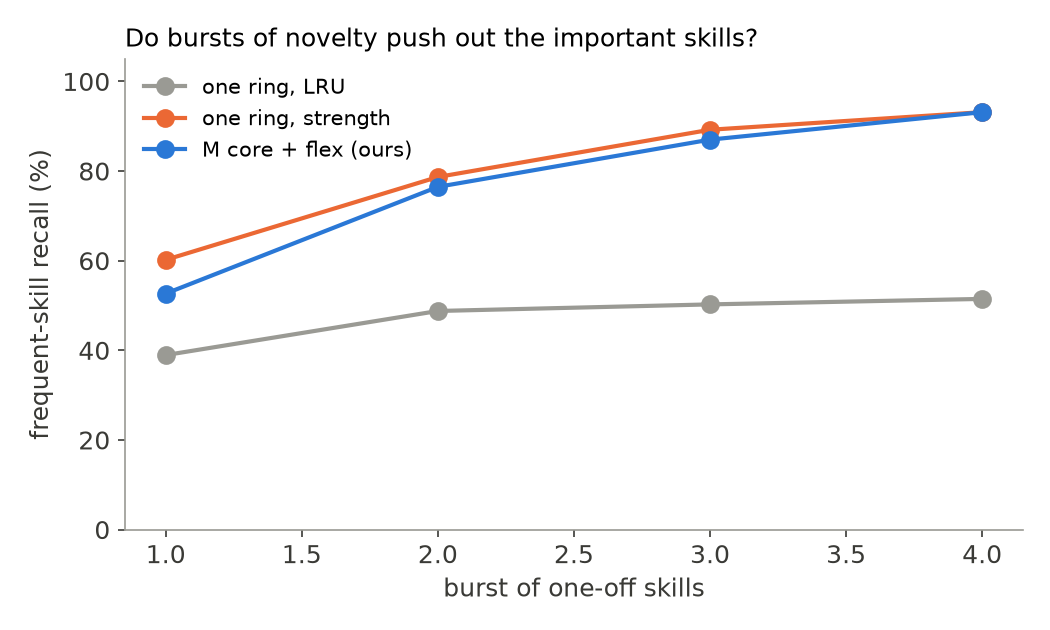
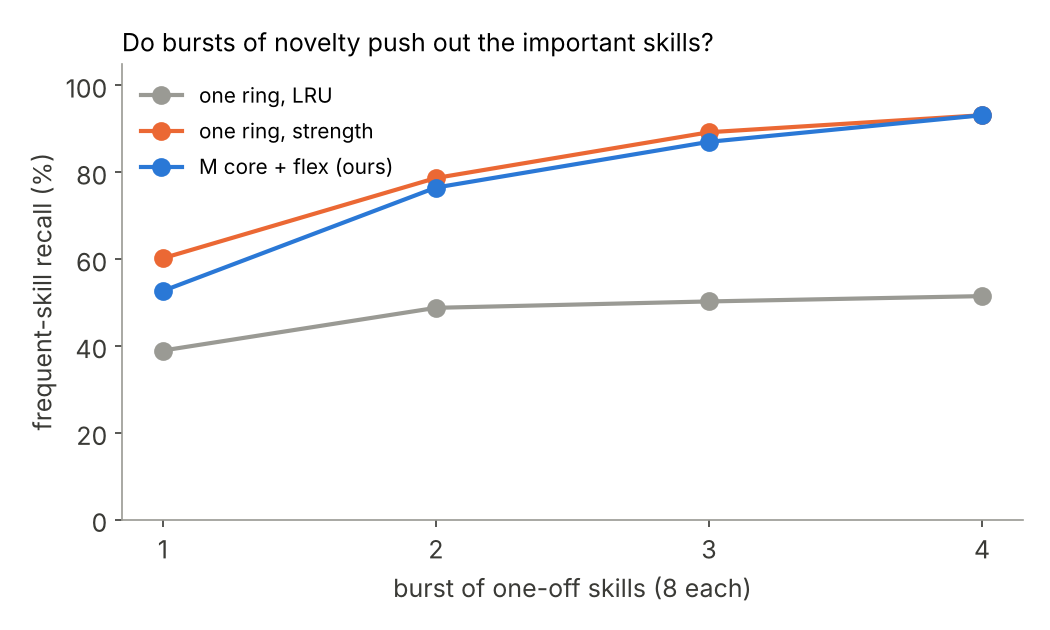
exp(05): verdict FAIL 4/5 (retention +29.4 vs fine-tune, bar +30); README, explainer, plot ticks
Claude-Session: https://claude.ai/code/session_0114zeuF2U3bnTrszuTQZFrt

Changed region(s): [[0.0305, 0.0905, 0.9752, 0.9651], [0.1524, 0.1508, 0.9448, 0.4825], [0.1219, 0.0302, 0.7314, 0.0905]]

diff --git a/experiments/05-core-flex-consolidation/plots.py b/experiments/05-core-flex-consolidation/plots.py
@@ -61,7 +61,8 @@ def make(per_seed, tab, out):
             continue
         ax.plot(np.arange(1, rec.shape[1] + 1), rec.mean(0), "-o", color=col, lw=2, ms=8, label=ARM_LABEL[a])
     ax.set_ylim(0, 105)
-    ax.set_xlabel("burst of one-off skills")
+    ax.set_xticks(range(1, 5))
+    ax.set_xlabel("burst of one-off skills (8 each)")
     ax.set_ylabel("frequent-skill recall (%)")
     ax.set_title("Do bursts of novelty push out the important skills?", loc="left", fontsize=12)
     ax.legend(frameon=False, fontsize=10)

diff --git a/experiments/05-core-flex-consolidation/EXPLAINER.md b/experiments/05-core-flex-consolidation/EXPLAINER.md
@@ -1,6 +1,6 @@
 # Explainer: core + flexible weights (tiny-learners 05)
 
-_Readable in about 5 minutes. Results are filled in after the GPU run._
+_Readable in about 5 minutes. Verdict: **FAIL**, 4 of 5 criteria. It missed the headline by 0.6 points, and the most useful finding was one we didn't plan for._
 
 ## 1. What we tested and why
 
@@ -20,7 +20,7 @@ In the model:
 ## 3. The process, step by step (and the choices you might disagree with)
 
 1. **Skills.** A skill is a cue bound to a rule `y = (a·x + b) mod 17`. The cue is a random point on a 64-dimensional sphere, and each time it arrives slightly blurred, the way a request is never phrased the same way twice. *Choice:* the skills are synthetic, so we know the right answer and can measure exactly what was kept.
-2. **Pretraining (GPU, about 75 s).** The core learns 208 rules. It also learns, through practice codes, what a slot code means. The baselines' plain network learns the same 208 rules and is made wider, so it has exactly as many parameters as the core plus all 18 slots (249K).
+2. **Pretraining (GPU, 60 s).** The core learns 208 rules. It also learns, through practice codes, what a slot code means. The baselines' plain network learns the same 208 rules and is made wider, so it has exactly as many parameters as the core plus all 18 slots (249K).
 3. **The stream.** 224 episodes per seed, each showing 6 worked examples. 8 frequent skills come back 12 times, 24 occasional ones 4 times, and 32 one-offs arrive in 4 bursts of 8, which try to flush the important skills out. Every learner gets the same 20 gradient steps per episode.
 4. **Opponents.** A frozen network. Plain fine-tuning, which is known to forget. EWC, which pulls important weights back toward their old values. Replay, which re-studies stored old examples, using as many bytes as our archive could ever reach. *Choice:* we gave replay the most generous fair budget, so beating it is meaningful.
 5. **Ablations:** remove the archive, use one ring instead of two (with least-recently-used or strength eviction), harden every skill at once, unlimited slots, and half or double the slots.
@@ -28,7 +28,26 @@ In the model:
 
 ## 4. What we found
 
-_Pending the GPU run._
+The whole run took 1.9 minutes on Fortran's RTX 4080 SUPER, in one process, peaking at 1.6 GB of RAM.
+
+| | Remembered at the end | Pretrained skills | New skills |
+|---|---|---|---|
+| Frozen | 52.5 | 100 | 4.9 (chance) |
+| Fine-tune | 50.1 | 73.9 | 26.3 |
+| EWC | 27.6 | 26.9 | 28.3 |
+| Replay (same bytes) | 65.2 | 87.8 | 42.7 |
+| **Core + flex (yours)** | **79.5** | **100** | **59.1** |
+
+- **It remembered the most:** 79.5 vs 50.1 for fine-tuning and 65.2 for replay. The pre-registered bar was +30 over fine-tuning. It reached +29.4, which is a real miss: the 3 seeds agree within 0.15 points. So the verdict is FAIL. Against replay, the strongest baseline, it won by 14 points with less storage (340 KB of archive vs 400 KB of replay).
+- **It learned as fast as fine-tuning** (35.4 vs 37.3 after a skill's first 6 examples), and it never damaged the core: pretrained skills stayed at 100%.
+- **Archived skills came back perfectly:** 194 returns at 100% of their last recall, with no new examples. Without the archive, recall on return was 16%.
+- **The surprise: the archive is what remembers.** Count only the weights that are loaded, and the model holds 23% of the new skills, less than replay's 43%. Take the archive away and the score falls from 79.5 to 61.6. A plain one-ring cache with an archive scored the same as your two-ring design (79.8), and so did 9, 36 or unlimited slots.
+- **Hardening works, but the two rings aren't needed.** After each burst of one-offs, your model still had 77% of its frequent skills loaded, against 47% for a cache that drops the least recently used skill. A single ring that drops the *weakest* skill (strength = how often it's used, fading over time) kept 80%. The strength score does the protecting, not the second ring.
+- **It memorised, it didn't find the rule.** On inputs a skill hadn't shown yet, every learner was at or below chance. So a skill seen once caps at 6 of 17 answers (35%), and only repetition fills in the rest. The core's code space did not let a slot jump to a new rule from 6 examples.
+
+Caveats: EWC's tuning grid started at a learning rate of 1e-3 while fine-tuning's went down to 3e-4, so EWC is probably under-tuned. Skills are synthetic. Lookup was 3.3 µs per query on Fortran's CPU, and one model's update took 43 ms per episode on the GPU.
+
+**Next steps this suggests:** (1) let hardened slots slowly teach the core ("consolidation" proper), so the active weights hold more and the archive less; (2) give slots structure (e.g. separate codes for a and b) so one example batch can find the rule, not just the pairs; (3) try it on a real on-device task, such as app intents a phone learns from you.
 
 ## 5. Why it matters
 

diff --git a/experiments/05-core-flex-consolidation/README.md b/experiments/05-core-flex-consolidation/README.md
@@ -2,15 +2,21 @@
 
 **Goal:** can a fixed-size tiny model keep a stable core, pick up new skills in a small flexible ring, harden the ones that keep coming back, and archive (never lose) the ones it replaces, so it remembers better than fine-tuning or replay at the same size?
 
-**Verdict:** _pending GPU run_ · details: [EXPLAINER.md](EXPLAINER.md) · `results/results.md` after the run
+**Verdict: FAIL** (4 of 5) · ✨ INTRIGUING: the archive does the remembering. Any slot cache with an archive keeps as much as unlimited slots, and one ring that evicts by use-strength matches the two tiers · details: [EXPLAINER.md](EXPLAINER.md) · [results/results.md](results/results.md)
 
 | # | Criterion (pre-registered in [criteria.py](criteria.py)) | Threshold | Result |
 |---|---|---|---|
-| C1 | Budget | active model ≤ 20 MB, kept ≤ 20 MB, ≤ 10 GPU min (≈ 5 planned), update ≤ 50 ms, slot lookup ≤ 100 µs, RAM ≤ 2 GB | – |
-| C2 | Remembers old + new skills at the end (headline) | ≥ fine-tune + 30 pts **and** ≥ replay (same bytes) + 5 pts | – |
-| C3 | Learns a new skill fast (after its first 6 examples) | ≥ fine-tune − 5 pts | – |
-| C4 | Recovers archived skills with no new examples | ≥ 90% of last recall; the no-archive ablation ≤ 50% | – |
-| C5 | Hardening protects frequent skills through bursts of one-offs | ≥ one-ring LRU cache + 10 pts | – |
+| C1 | Budget | active ≤ 20 MB, kept ≤ 20 MB, ≤ 10 GPU min, update ≤ 50 ms, lookup ≤ 100 µs, RAM ≤ 2 GB | **PASS**: 0.5 MB active, 0.9 MB kept, 1.9 GPU min, 43 ms, 3.3 µs, 1.6 GB |
+| C2 | Remembers old + new skills at the end (headline) | ≥ fine-tune + 30 pts **and** ≥ replay (same bytes) + 5 pts | **FAIL**: 79.5 vs 50.1 (+29.4) and 65.2 (+14.3) |
+| C3 | Learns a new skill fast (after its first 6 examples) | ≥ fine-tune − 5 pts | **PASS**: 35.4 vs 37.3 (−1.9) |
+| C4 | Recovers archived skills with no new examples | ≥ 90% of last recall; no-archive ablation ≤ 50% | **PASS**: 100% (194 returns) vs 16% |
+| C5 | Hardening protects frequent skills through bursts of one-offs | ≥ one-ring LRU cache + 10 pts | **PASS**: 77.3 vs 47.4 (+30) |
+
+C2 missed by 0.6 points, which is 4 seed standard deviations (σ = 0.15), so the FAIL stands. All controls stayed at chance (shuffled cues 5.3%, never-seen 5.6%, frozen on new skills 5.1%); routing errors 0%.
+
+![retention](results/retention.png)
+
+**What the ablations say:** without the archive, stream recall falls from 59 to 23 points. A one-ring LRU cache with an archive retains just as much (79.8). Slot count barely matters with an archive (9, 18, 36 or unlimited: about 59). Hardening keeps frequent skills loaded through bursts (+30 over LRU), but a single ring that evicts by use-strength does it too (80.3 vs 77.3). No learner found the rule: on inputs not yet shown, every arm stayed at or below chance, so a one-off caps at 6/17 = 35%.
 
 Validity gate (else INCONCLUSIVE): both pretrained nets ≥ 90% on known skills; shuffled cues, never-seen skills, the frozen net on new skills and shuffled labels (on unseen inputs) all ≤ chance + 5 (chance 5.9%); wrong-slot routing ≤ 2%.
 

diff --git a/README.md b/README.md
@@ -7,7 +7,7 @@ Tiny models (≤ 20 MB) that **learn while they are being used**: from the promp
 | # | Experiment | Verdict | Criteria | One-line finding |
 |---|---|---|---|---|
 | 03 | [Weight-order memory](experiments/03-weight-order-memory): adapt by *reordering* weights, not rewriting them | _pending GPU run_ | – | – |
-| 05 | [Core + flexible weights](experiments/05-core-flex-consolidation): stable core, a small flexible ring, harden what repeats, archive what's replaced | _pending GPU run_ | – | – |
+| 05 | [Core + flexible weights](experiments/05-core-flex-consolidation): stable core, a small flexible ring, harden what repeats, archive what's replaced | **FAIL** ✨ | 4/5 | Remembered 79.5% vs fine-tune 50.1 (+29.4, bar was +30) and replay 65.2; the archive does the remembering, and one ring ranked by use-strength matches two tiers |
 
 Every experiment pre-registers PASS / FAIL criteria and negative controls before any run, and prints a verdict table (PASS / FAIL / INCONCLUSIVE, plus an optional ✨ INTRIGUING tag that never changes the verdict).
 
